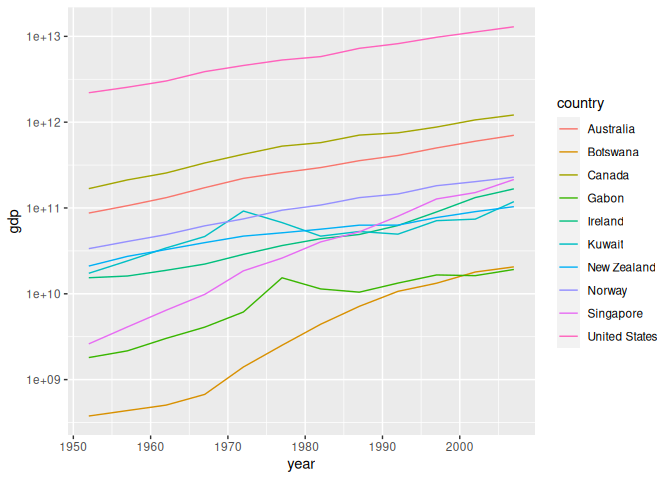
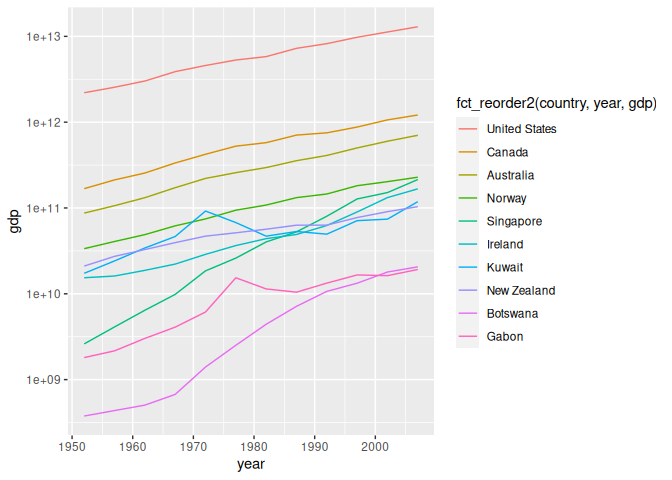
Revise c04

diff --git a/challenges/c04-gapminder-assignment.md b/challenges/c04-gapminder-assignment.md
@@ -3,47 +3,32 @@ Gapminder
 Andrew Mascillaro
 2023-01-22
 
-- <a href="#grading-rubric" id="toc-grading-rubric">Grading Rubric</a>
-  - <a href="#individual" id="toc-individual">Individual</a>
-  - <a href="#due-date" id="toc-due-date">Due Date</a>
-- <a href="#guided-eda" id="toc-guided-eda">Guided EDA</a>
-  - <a
-    href="#q0-perform-your-first-checks-on-the-dataset-what-variables-are-in-this"
-    id="toc-q0-perform-your-first-checks-on-the-dataset-what-variables-are-in-this"><strong>q0</strong>
-    Perform your “first checks” on the dataset. What variables are in
-    this</a>
-  - <a
-    href="#q1-determine-the-most-and-least-recent-years-in-the-gapminder-dataset"
-    id="toc-q1-determine-the-most-and-least-recent-years-in-the-gapminder-dataset"><strong>q1</strong>
-    Determine the most and least recent years in the <code>gapminder</code>
-    dataset.</a>
-  - <a
-    href="#q2-filter-on-years-matching-year_min-and-make-a-plot-of-the-gdp-per-capita-against-continent-choose-an-appropriate-geom_-to-visualize-the-data-what-observations-can-you-make"
-    id="toc-q2-filter-on-years-matching-year_min-and-make-a-plot-of-the-gdp-per-capita-against-continent-choose-an-appropriate-geom_-to-visualize-the-data-what-observations-can-you-make"><strong>q2</strong>
-    Filter on years matching <code>year_min</code>, and make a plot of the
-    GDP per capita against continent. Choose an appropriate
-    <code>geom_</code> to visualize the data. What observations can you
-    make?</a>
-  - <a
-    href="#q3-you-should-have-found-at-least-three-outliers-in-q2-but-possibly-many-more-identify-those-outliers-figure-out-which-countries-they-are"
-    id="toc-q3-you-should-have-found-at-least-three-outliers-in-q2-but-possibly-many-more-identify-those-outliers-figure-out-which-countries-they-are"><strong>q3</strong>
-    You should have found <em>at least</em> three outliers in q2 (but
+- [Grading Rubric](#grading-rubric)
+  - [Individual](#individual)
+  - [Due Date](#due-date)
+- [Guided EDA](#guided-eda)
+  - [**q0** Perform your “first checks” on the dataset. What variables
+    are in
+    this](#q0-perform-your-first-checks-on-the-dataset-what-variables-are-in-this)
+  - [**q1** Determine the most and least recent years in the `gapminder`
+    dataset.](#q1-determine-the-most-and-least-recent-years-in-the-gapminder-dataset)
+  - [**q2** Filter on years matching `year_min`, and make a plot of the
+    GDP per capita against continent. Choose an appropriate `geom_` to
+    visualize the data. What observations can you
+    make?](#q2-filter-on-years-matching-year_min-and-make-a-plot-of-the-gdp-per-capita-against-continent-choose-an-appropriate-geom_-to-visualize-the-data-what-observations-can-you-make)
+  - [**q3** You should have found *at least* three outliers in q2 (but
     possibly many more!). Identify those outliers (figure out which
-    countries they are).</a>
-  - <a
-    href="#q4-create-a-plot-similar-to-yours-from-q2-studying-both-year_min-and-year_max-find-a-way-to-highlight-the-outliers-from-q3-on-your-plot-in-a-way-that-lets-you-identify-which-country-is-which-compare-the-patterns-between-year_min-and-year_max"
-    id="toc-q4-create-a-plot-similar-to-yours-from-q2-studying-both-year_min-and-year_max-find-a-way-to-highlight-the-outliers-from-q3-on-your-plot-in-a-way-that-lets-you-identify-which-country-is-which-compare-the-patterns-between-year_min-and-year_max"><strong>q4</strong>
-    Create a plot similar to yours from q2 studying both
-    <code>year_min</code> and <code>year_max</code>. Find a way to highlight
-    the outliers from q3 on your plot <em>in a way that lets you identify
-    which country is which</em>. Compare the patterns between
-    <code>year_min</code> and <code>year_max</code>.</a>
-- <a href="#your-own-eda" id="toc-your-own-eda">Your Own EDA</a>
-  - <a
-    href="#q5-create-at-least-three-new-figures-below-with-each-figure-try-to-pose-new-questions-about-the-data"
-    id="toc-q5-create-at-least-three-new-figures-below-with-each-figure-try-to-pose-new-questions-about-the-data"><strong>q5</strong>
-    Create <em>at least</em> three new figures below. With each figure, try
-    to pose new questions about the data.</a>
+    countries they
+    are).](#q3-you-should-have-found-at-least-three-outliers-in-q2-but-possibly-many-more-identify-those-outliers-figure-out-which-countries-they-are)
+  - [**q4** Create a plot similar to yours from q2 studying both
+    `year_min` and `year_max`. Find a way to highlight the outliers from
+    q3 on your plot *in a way that lets you identify which country is
+    which*. Compare the patterns between `year_min` and
+    `year_max`.](#q4-create-a-plot-similar-to-yours-from-q2-studying-both-year_min-and-year_max-find-a-way-to-highlight-the-outliers-from-q3-on-your-plot-in-a-way-that-lets-you-identify-which-country-is-which-compare-the-patterns-between-year_min-and-year_max)
+- [Your Own EDA](#your-own-eda)
+  - [**q5** Create *at least* three new figures below. With each figure,
+    try to pose new questions about the
+    data.](#q5-create-at-least-three-new-figures-below-with-each-figure-try-to-pose-new-questions-about-the-data)
 
 *Purpose*: Learning to do EDA well takes practice! In this challenge
 you’ll further practice EDA by first completing a guided exploration,
@@ -199,6 +184,7 @@ can.
 gapminder %>% 
   filter(year == year_min) %>% 
   ggplot(aes(x = continent, y = gdpPercap)) +
+  scale_y_continuous(trans="log10") +
   geom_violin()
 ```
 
@@ -208,6 +194,7 @@ gapminder %>%
 gapminder %>% 
   filter(year == year_min) %>% 
   ggplot(aes(x = continent, y = gdpPercap)) +
+  scale_y_continuous(trans="log10") +
   geom_boxplot()
 ```
 
@@ -215,7 +202,8 @@ gapminder %>%
 
 **Observations**:
 
-- GDP per capita within a continent is very right skewed.
+- There are outliers with higher GDP per capita than the average but no
+  outliers with a lower GDP per capita than average.
 
 **Difficulties & Approaches**:
 
@@ -375,20 +363,21 @@ df_q5 %>%
 df_q5 %>%
   mutate(gdp = gdpPercap * pop) %>% 
   ggplot(aes(x = year, y = gdp)) +
+  geom_line(aes(color = fct_reorder2(country, year, gdp))) +
   geom_line(aes(color = country))
 ```
 
 ![](c04-gapminder-assignment_files/figure-gfm/q5-task2-1.png)<!-- -->
 
-- Wow, Australia has the highest GDP by far of all of these countries.
-  If we use a logarithmic y axis can we draw more conclusions about the
+- Wow, the USA has the highest GDP by far of all of these countries. If
+  we use a logarithmic y axis can we draw more conclusions about the
   other countries?
 
 ``` r
 df_q5 %>%
   mutate(gdp = gdpPercap * pop) %>%
   ggplot(aes(x = year, y = gdp)) +
-  geom_line(aes(color = country)) +
+  geom_line(aes(color = fct_reorder2(country, year, gdp))) +
   scale_y_continuous(trans = 'log10')
 ```
 
